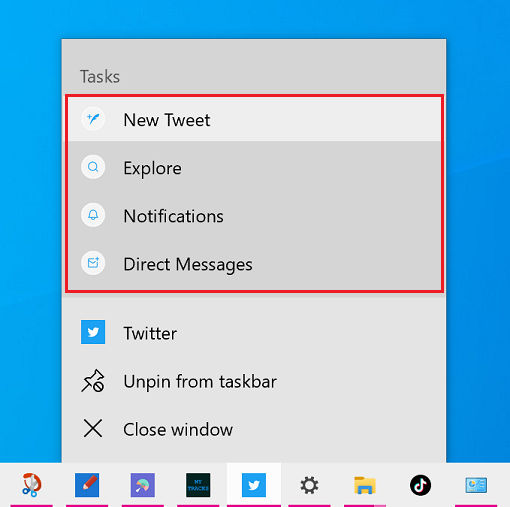
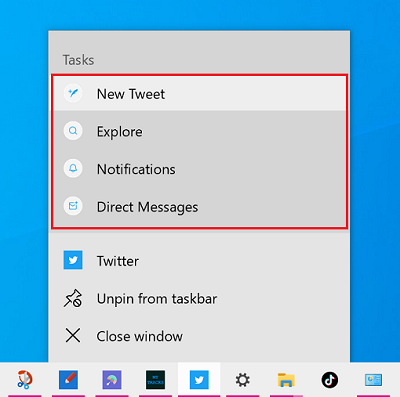
More intro content and new API pages

diff --git a/microsoft-edge/progressive-web-apps-chromium/getting-started/pwa-desktop.md b/microsoft-edge/progressive-web-apps-chromium/getting-started/pwa-desktop.md
@@ -1,14 +1,14 @@
 ---
 description: This guide gives you an overview of the benefits of using PWA to build desktop applications.
-title: Desktop Progressive Web Apps
+title: Progressive Web Apps on desktop
 author: MSEdgeTeam
 ms.author: msedgedevrel
-ms.date: 09/02/2021
+ms.date: 09/13/2021
 ms.topic: conceptual
 ms.prod: microsoft-edge
-keywords: progressive web apps, PWA, Edge, Windows, desktop, PWABuilder
+keywords: progressive web apps, PWA, Edge, Windows, desktop, installation, integration, microsoft store
 ---
-# Desktop Progressive Web Apps  
+# Progressive Web Apps   on desktop
 
 > [!NOTE]
 > This page focuses on the characteristics and advantages of PWAs on desktop devices. For more information about general PWA benefits, navigate to [The anatomy of a PWA][PwaAnatomy].  
@@ -26,7 +26,7 @@ With a shared codebase between your website, mobile app and desktop app (across 
 
 Your app can also be published on the [Microsoft Store][PwaMicrosoftStore], making it more familiar and trustworthy for Windows users to discover and install.  
 
-## Installation experience and Windows integration  
+## Installation experience    
 
 In Windows, PWAs are first-class app citizens and any device running Microsoft Edge gets full access to the technologies and characteristics of Progressive Web Apps.  
 
@@ -70,65 +70,57 @@ Since PWAs are deeply integrated in Windows, they show up anywhere other types o
    The list of installed apps on Windows also display PWAs  
 :::image-end:::  
 
-### Windows integration  
+## Windows integration  
 
-Like other native apps in Windows, installed PWAs are displayed in various places.  
+PWAs are displayed like native apps on Windows. They appear in the Taskbar (where they can be pinned), in the Start Menu, or when switching between apps with `Alt`+`Tab`.  
 
-:::row:::
-   :::column span="1":::
-      Task bar 
-   :::column-end:::
-   :::column span="2":::
-      :::image type="complex" source="../media/pwa-and-native-apps-in-taskbar.png" alt-text="PWAs and native apps side by side in the task bar" lightbox="../media/pwa-and-native-apps-in-taskbar.png":::
-         PWAs and native apps side by side in the task bar  
-      :::image-end:::  
-   :::column-end:::
-:::row-end:::  
-:::row:::
-   :::column span="1":::
-      Start menu
-   :::column-end:::
-   :::column span="2":::
-       
-   :::column-end:::
-:::row-end:::  
-:::row:::
-   :::column span="1":::
-      Alt+tab  
-   :::column-end:::
-   :::column span="2":::
-       
-   :::column-end:::
-:::row-end:::  
-
-PWAs can also expose common tasks to users in the task bar contextual menu.
-
-:::image type="complex" source="../media/pwa-shortcuts-in-taskbar.png" alt-text="Common tasks are listed in the task bar contextual menu" lightbox="../media/pwa-shortcuts-in-taskbar.png":::
-   Common tasks are listed in the task bar contextual menu  
+:::image type="complex" source="../media/windows-start-menu.png" alt-text="PWAs and native apps side by side in the Taskbar and Start Menu" lightbox="../media/windows-start-menu.png":::
+   PWAs and native apps side by side in the Taskbar and Start Menu  
 :::image-end:::  
 
-Notification
+PWAs can also expose common tasks to users as shortcuts in the Windows Taskbar contextual menu. To learn about how to define shortcuts in your PWA, navigate to [Define app shortcuts][AppShortcutsFeature].  
 
-## Web capabilities bridging the gap to native  
+:::image type="complex" source="../media/pwa-shortcuts-in-taskbar.png" alt-text="Common tasks are listed in the Taskbar contextual menu" lightbox="../media/pwa-shortcuts-in-taskbar.png":::
+   Common tasks are listed in the Taskbar contextual menu  
+:::image-end:::  
 
-A few examples of impressive APIs that compete with native, that people might not have thought about. 
+PWAs can also display notifications in the operating system's own notification service. This helps make PWAs better integrated in Windows and makes it easy for users to easily re-engage with your app, especially when coupled with Push messages. Navigate to [Re-engage users with notifications and push messages][PushNotficationsFeature] to learn more.  
 
-* Push notifications
-* Periodic sync
-* Media: access to Bluethooth, USB
-* Intensive WebGL content
-* Native performance with WebAssembly
+:::image type="complex" source="../media/windows-action-center.png" alt-text="Notifications in Windows Action Center" lightbox="../media/windows-action-center.png":::
+   Notifications in Windows Action Center  
+:::image-end:::  
+
+## Bridging the gap to native  
+
+There are many new web capabilities built-in to Microsoft Edge that can make your app look and feel more native on Desktop and offer your users with engaging experiences.  
+
+With you PWAs, you can:
+
+*   Handle files.  
+*   Share content with other apps.  
+*   Access the clipboard.  
+*   Data sync and fetch work in the background.  
+*   Access device hardware such as Bluetooth and USB.  
+*   Store content in databases.  
+*   Take advantage of hardware accelerated graphics.  
+*   Use CSS layouts, animations, and filters to achieve a desktop look.  
+*   Run near-native performance code with WebAssembly.  
+
+There isn't much you can't do today with Web technologies, and thanks to Microsoft Edge, PWAs on desktop can take full advantage of this to bridge the gap to what users expect native apps to be capable of.
+
+Navigate to [Myth Busting PWAs][Davrous20191018MythBustingPwasNewEdgeEdition] for more information about what PWAs can do.  
 
 ## The Microsoft Store  
 
 Because PWAs are first-class citizens in the Microsoft Store, users can fully engage with them, from discovery, to installation, to execution, without ever opening the browser.  
 
-Pitch about why this is great for distributing PWAs.
+As the most used app on PCs, the Microsoft Store provides a trustworthy and familiar experience for your users to install your app. Additionally, it provides you with analytics.  
 
-Discoverability (people naturally look there), Trustworthiness, Easy install, App analytics thanks to the store.
-The Microsoft Store is now one of the most used apps on PCs  
 
 <!-- Links -->
 
 [PwaAnatomy]: ./pwa-anatomy.md "The anatomy of a PWA | Microsoft Docs"  
 [PwaMicrosoftStore]: ./microsoft-store.md "Publish your Progressive Web App to the Microsoft Store | Microsoft Docs"  
+[AppShortcutsFeature]: ../developer-guide/shortcuts.md "Define app shortcuts | Microsoft Docs"  
+[PushNotficationsFeature]: ../developer-guide/push-notifications.md "Re-engage users with notifications and push messages | Microsoft Docs"  
+[Davrous20191018MythBustingPwasNewEdgeEdition]: https://www.davrous.com/2019/10/18/myth-busting-pwas-the-new-edge-edition "Myth Busting PWAs – The New Edge Edition"  

diff --git a/microsoft-edge/progressive-web-apps-chromium/developer-guide/shortcuts.md b/microsoft-edge/progressive-web-apps-chromium/developer-guide/shortcuts.md
@@ -1,0 +1,92 @@
+---
+title: Define app shortcuts
+description: Learn how to make your app's common tasks available in the Windows Taskbar's contextual menu.
+author: MSEdgeTeam
+ms.author: msedgedevrel
+ms.date: 09/13/2021
+ms.topic: conceptual
+ms.prod: microsoft-edge
+ms.technology: pwa
+keywords: progressive web apps, PWA, Edge, Windows, Taskbar, jumplist, shortcut
+---
+# Define app shortcuts  
+
+App shortcuts let users accomplish common tasks more quickly and easily and can increase their engagement with an app.
+
+On mobile devices, shortcuts can usually be accessed by long-pressing an app icon. On Windows, shortcuts are integrated as Jumplists. Jumplists define popup menus that appear when you use the contextual menu (right-click) on a tile in the Start Menu or an icon in the Taskbar.  
+
+:::row:::
+    :::column span="1":::
+        :::image type="complex" source="../media/edge-ios-shortcuts.png" alt-text="Shortcuts on Microsoft Edge on iOS" lightbox="../media/edge-ios-shortcuts.png":::
+            Shortcuts on Microsoft Edge on iOS  
+        :::image-end:::  
+    :::column-end:::
+    :::column span="1":::
+        :::image type="complex" source="../media/pwa-shortcuts-in-taskbar.png" alt-text="Jumplist on the Twitter app on Windows" lightbox="../media/pwa-shortcuts-in-taskbar.png":::
+           Jumplist on the Twitter app on Windows  
+        :::image-end:::  
+    :::column-end:::
+:::row-end:::  
+
+PWAs can also define common tasks as shortcuts in the [Web App Manifest][ManifestFileDoc].  
+
+## Define shortcuts  
+
+Defining shortcuts is done by using the `shortcuts` manifest member. This member is an array that can contain multiple shortcuts. Each shortcut is essentially a URL that gets requested when the shortcut is used and the app is launched.  
+
+```json
+{
+    "shortcuts" : [
+        {
+            "name": "Today's agenda",
+            "url": "/today",
+            "description": "List of events planned for today"
+        },
+        {
+            "name": "New event",
+            "url": "/create/event"
+        },
+        {
+            "name": "New reminder",
+            "url": "/create/reminder"
+        }
+    ]
+}
+```  
+
+The following properties can be used.  
+
+| Property | Details |  
+|:--- |:--- |  
+| `name` | A string that is displayed to the user on **Jumplists** or the contextual menu. |  
+| `short_name` | A string that is displayed when insufficient space exists to display the full name of the shortcut. |  
+| `description` | A string that describes the purpose of the shortcut.  It may be accessed by assistive technology. |  
+| `url` | The URI in the web app that opens when the shortcut is activated. |  
+| `icons` | A set of icons that represents the shortcut. |  
+
+To learn more, navigate to the [Shortcuts MDN documentation][MDNShortcuts].  
+
+## Sample app  
+
+**TODO**  
+
+## Debug shortcuts  
+
+You can test that your shortcuts are configured correctly by using the **Application** panel of DevTools.  
+
+1.   [Open DevTools][OpenDevTools], such as by selecting `F12`.  
+1.   Navigate to **Application** > **Manifest**.  
+1.   Scroll down to reveal the list of shortcuts.  
+
+:::image type="complex" source="../media/devtools-debug-shortcuts.png" alt-text="Shortcuts are listed in the Application panel" lightbox="../media/devtools-debug-shortcuts.png":::
+    Shortcuts are listed in the Application panel  
+:::image-end:::  
+
+To learn more about using the Application panel to debug PWAs, navigate to [Debug Progressive Web Apps][ApplicationManifestDevTools].  
+
+<!-- Links -->
+
+[ManifestFileDoc]: ./webappmanifests.md "Use the Web App Manifest to integrate your Progressive Web App into the Operating System | Microsoft Docs"  
+[MDNShortcuts]: https://developer.mozilla.org/en-US/docs/Web/Manifest/shortcuts "shortcuts - Web App Manifest | MDN"  
+[OpenDevTools]: ../../devtools-guide-chromium/open/index.md "Open Microsoft Edge DevTools | Microsoft Docs"  
+[ApplicationManifestDevTools]: ../../devtools-guide-chromium/progressive-web-apps/index.md "Debug Progressive Web Apps | Microsoft Docs"  

diff --git a/microsoft-edge/progressive-web-apps-chromium/getting-started/pwa-anatomy.md b/microsoft-edge/progressive-web-apps-chromium/getting-started/pwa-anatomy.md
@@ -121,7 +121,7 @@ Desktop PWAs are supported on any of the platforms Microsoft Edge is [available]
        App menu items under settings  
     :::image-end:::  
     
-*   Apps are integrated in Windows like any other apps. Web Notifications are shown in the Windows notification system, app icons appear in the task bar, the start menu and everywhere else Windows lists apps, apps can automatically be run on login, and more.  
+*   Apps are integrated in Windows like any other apps. Web Notifications are shown in the Windows notification system, app icons appear in the Taskbar, the Start Menu and everywhere else Windows lists apps, apps can automatically be run on login, and more.  
 *   Shared cookie store with the browser profile that installed the app.  
 *   Access to other browser features using the **Setting and more** \(`...`\) menu including certificate validation, site permissions, tracking protection, and browser extensions.  
 *   Full access to [Microsoft Edge DevTools][DevtoolsProgressiveWebApps] for debugging your app.  
@@ -138,14 +138,6 @@ Microsoft Edge continuously adds new capabilities that make it easier for PWAs t
 [PwaServiceWorkers]: ../developer-guide/serviceworker.md "Use Service Workers to manage network requests and push notifications | Microsoft Docs"
 [PwaWebAppManifests]: ../developer-guide/webappmanifests.md "Use the Web App Manifest to integrate your Progressive Web App into the Operating System | Microsoft Docs"
 [PwaOfflineExperience]: ../developer-guide/offline.md "Offline and network connectivity support in Progressive Web Apps | Microsoft Docs"
-
-[WindowsUWPControlsPatternTilesNotificationsWns]: /windows/uwp/controls-and-patterns/tiles-and-notifications-windows-push-notification-services--wns--overview.md "Windows Push Notification Services (WNS) overview | Microsoft Docs"  
-[WindowsUWPDesignDevicesDesigningTv]: /windows/uwp/design/devices/designing-for-tv.md "Designing for Xbox and TV | Microsoft Docs"  
-[WindowsUWPDesignDevicesIndex]: /windows/uwp/design/devices/index.md "UI considerations for UWP devices | Microsoft Docs"  
-[WindowsUWPGetStartedGuide]: /windows/uwp/get-started/universal-application-platform-guide.md "What's a Universal Windows Platform (UWP) app? | Microsoft Docs"  
-[WindowsUWPLaunchResumeBackgroundTasks]: /windows/uwp/launch-resume/support-your-app-with-background-tasks.md "Support your app with background tasks | Microsoft Docs"  
-[WindowsUWPPublishIndex]: /windows/uwp/publish/index.md "Publish Windows apps and games | Microsoft Docs"  
-[WindowsUWPPublishDeveloperAccount]: /windows/uwp/publish/opening-a-developer-account.md "Opening a developer account | Microsoft Docs"  
 
 [WindowsBlogsWelcomingPWAsEdgeWindows]: https://blogs.windows.com/msedgedev/2018/02/06/welcoming-progressive-web-apps-edge-windows-10/#56z7mJwKsykfbR4I.97 "Welcoming Progressive Web Apps to Microsoft Edge and Windows 10 - Windows Blogs"  
 [MicrosoftDeveloperEdgePlatformStatusBackgroundSync]: https://developer.microsoft.com/microsoft-edge/platform/status/backgroundsyncapi "Background Sync API - Microsoft Edge Platform Status"  

diff --git a/microsoft-edge/progressive-web-apps-chromium/index.md b/microsoft-edge/progressive-web-apps-chromium/index.md
@@ -11,7 +11,9 @@ keywords: progressive web apps, PWA, Edge, JavaScript, UWP, Microsoft Store
 ---
 # Progressive Web Apps overview  
 
-## What's a PWA  
+:::image type="complex" source="./media/pwa-rainbow-logo.png" alt-text="The PWA logo" lightbox="./media/pwa-rainbow-logo.png":::
+    The PWA logo  
+:::image-end:::  
 
 **[Progressive Web Apps][MDNApps]** \(PWAs\) provide access to open web technologies for cross-platform interoperability and provide your users with a native, app-like experience customized for their devices. 
 
@@ -19,7 +21,7 @@ PWAs are websites that are **[progressively enhanced][AListApartUnderstandingPro
 
 The qualities of a PWA combine **the best of the web and native apps**. PWAs run in browsers, like websites, but have access to native app features like the ability to work offline, be installed as a native app, support push notifications and periodic updates, access hardware features, and more.  
 
-**PWAs are first-class citizens on Windows**. When installed, they behave like other apps. They can be added to the start menu, pinned to the task bar, handle files, run on user login, and more.  
+**PWAs are first-class citizens on Windows**. When installed, they behave like other apps. They can be added to the Start Menu, pinned to the Taskbar, handle files, run on user login, and more.  
 
 PWAs can also be **submitted to the Microsoft Store** where millions of Windows users can discover and easily install them alongside other Windows apps.  
 
@@ -197,7 +199,7 @@ To read more success stories, navigate to [PWA Stats][PwaStats].
 [TrivagoSuccessStory]: https://www.thinkwithgoogle.com/intl/en-gb/marketing-strategies/app-and-mobile/trivago-embrace-progressive-web-apps-as-the-future-of-mobile/  "The next billion users: trivago embrace progressive web apps as the future of mobile | Think With Google"  
 [TinderSuccessStory]: https://medium.com/@addyosmani/a-tinder-progressive-web-app-performance-case-study-78919d98ece0 "A Tinder Progress Web App Performance Case Study | Medium.com"
 [AnatomyOfAPWA]: ./getting-started/pwa-anatomy.md "The anatomy of a PWA | Microsoft Docs"
-[PWAsOnDesktop]: ./getting-started/pwa-desktop.md "Desktop Progressive Web Apps | Microsoft Docs"
+[PWAsOnDesktop]: ./getting-started/pwa-desktop.md "Progressive Web Apps on desktop | Microsoft Docs"
 [PublishingToTheMicrosoftStore]: ./getting-started/microsoft-store.md "Publish your Progressive Web App to the Microsoft Store | Microsoft Docs"
 [GettingStarted]: ./developer-guide/index.md "Get started with Progressive Web Apps | Microsoft Docs"
 [AdvancedFeatures]: ./developer-guide/advanced-features.md "Advanced Progressive Web Apps features | Microsoft Docs"

diff --git a/microsoft-edge/progressive-web-apps-chromium/developer-guide/advanced-features.md b/microsoft-edge/progressive-web-apps-chromium/developer-guide/advanced-features.md
@@ -22,10 +22,12 @@ keywords: progressive web apps, PWA, API
 
 | Feature | Description |  
 |:--- |:---  
+| [Re-engage users with notifications and push messages][PushNotifications] | Use the Push and Notifications APIs to re-engage users with your app | 
 | [Handle files][FileHandling] | Register your PWA to natively handle files | 
 | [Handle URLs and protocols][UrlsProtocolsHandling] | Register your PWA to handle URLs and protocols | 
 | [Display content in the title bar][WindowControlsOverlay] | Use the full surface area of the window your PWA is in to display content | 
-| [Sharing with other apps][Share] | Share content with other apps and accept shared content | 
+| [Share with other apps][Share] | Share content with other apps and accept shared content | 
+| [Define app shortcuts][AppShortcuts] | Define common tasks to be added to the Taskbar's contextual menu | 
 | TODO | Add more APIs and link them to docs pages |   
 
 ## Toggle experimental features  
@@ -45,7 +47,9 @@ To turn on \(or off\) experimental features in Microsoft Edge, complete the foll
 <!-- links -->  
 
 [OriginTrials]: ./origin-trials.md "Origin trials | Microsoft Docs"
+[PushNotifications]: ./push-notifications.md "Re-engage users with notifications and push messages | Microsoft Docs"
 [FileHandling]: ./handle-files.md "Handle files in Progressive Web Apps | Microsoft Docs"  
 [UrlsProtocolsHandling]: ./handle-urls-protocols.md "Handle URLs and protocols in Progressive Web Apps | Microsoft Docs"  
 [WindowControlsOverlay]: ./window-controls-overlay.md "Display content in the title bar | Microsoft Docs"  
-[Share]: ./share.md "Sharing with other apps | Microsoft Docs"  
+[Share]: ./share.md "Share with other apps | Microsoft Docs"  
+[AppShortcuts]: ./shortcuts.md "Define app shortcuts | Microsoft Docs"  

diff --git a/microsoft-edge/progressive-web-apps-chromium/developer-guide/share.md b/microsoft-edge/progressive-web-apps-chromium/developer-guide/share.md
@@ -1,5 +1,5 @@
 ---
-title: Sharing with other apps
+title: Share with other apps
 description: Learn how to share content from your PWA with other apps and accept shared content from other apps.
 author: MSEdgeTeam
 ms.author: msedgedevrel
@@ -9,7 +9,7 @@ ms.prod: microsoft-edge
 ms.technology: pwa
 keywords: progressive web apps, PWA, Edge, JavaScript, share
 ---
-# Sharing with other apps  
+# Share with other apps  
 
 Sharing content between apps was made popular by mobile devices where manipulating files or copying content is less intuitive than on desktop operating systems. On mobile, it is common to share an image to a friend using a text message for example.  
 

diff --git a/microsoft-edge/progressive-web-apps-chromium/developer-guide/push-notifications.md b/microsoft-edge/progressive-web-apps-chromium/developer-guide/push-notifications.md
@@ -1,0 +1,12 @@
+---
+title: Re-engage users with notifications and push messages
+description: Learn how to use the Push and Notifications API to provide re-engaging functionality in your app.
+author: MSEdgeTeam
+ms.author: msedgedevrel
+ms.date: 09/13/2021
+ms.topic: conceptual
+ms.prod: microsoft-edge
+ms.technology: pwa
+keywords: progressive web apps, PWA, Edge, Windows, push, notifications
+---
+# Re-engage users with notifications and push messages  
